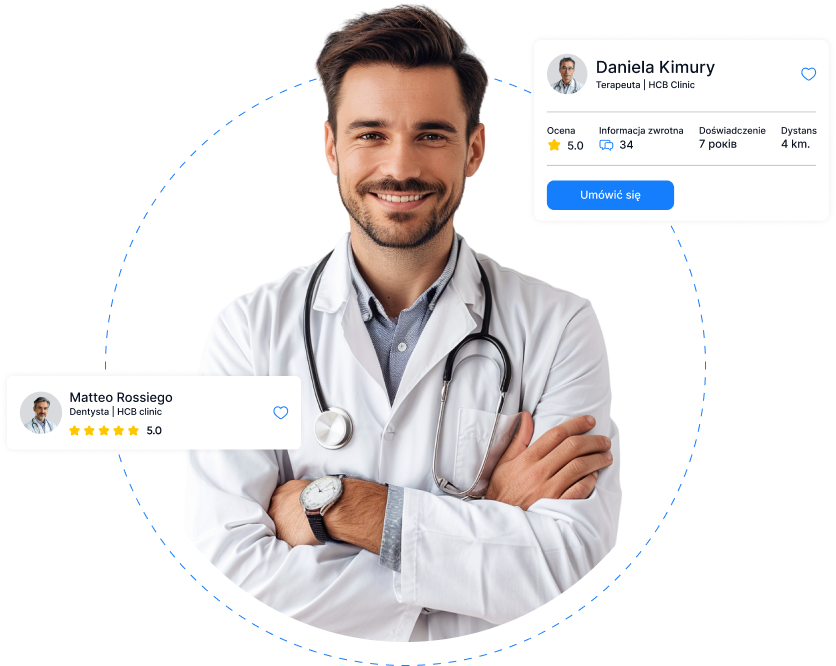
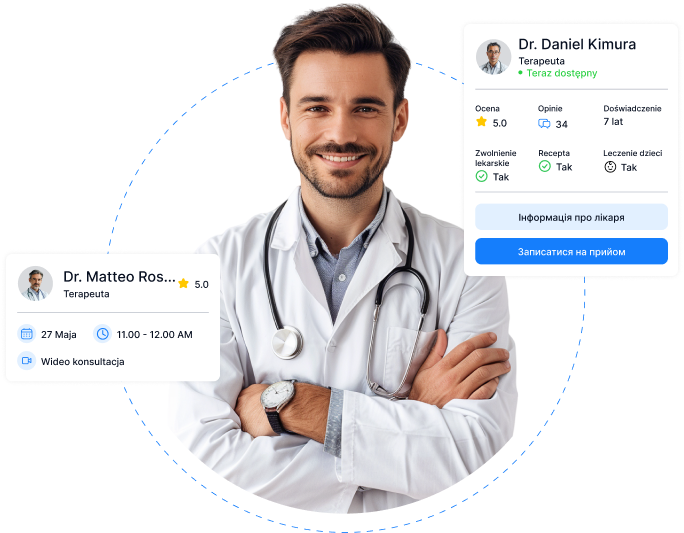
- changed some styles in a Tablet version layout - change images in a Tablet version

diff --git a/src/components/sections/Tablet/GetStartedToday/GetStartedToday.jsx b/src/components/sections/Tablet/GetStartedToday/GetStartedToday.jsx
@@ -2,20 +2,52 @@ import React, {forwardRef} from 'react';
 
 import classes from './getStartedToday.module.css';
 import {useTranslation} from "react-i18next";
+import Button from "../../../ui/button/Button";
+import {useModal} from "../../../../context/ModalContext";
+import phone from "../../../../assets/images/getStartedToday/mobile/phone.png";
+import phoneUa from "../../../../assets/images/getStartedToday/mobile/phoneUa.png";
+import phonePl from "../../../../assets/images/getStartedToday/mobile/phonePl.png";
+import i18n from "../../../../i18n";
+import LazyImage from "../../../ui/LazyImage";
 
 
 const GetStartedToday = forwardRef((props, ref) => {
     const {t} = useTranslation();
-
+    const {openModal} = useModal()
+    const lang = i18n.language
     return (
         <div className={classes.container} ref={ref}>
             <div className={classes.title} data-aos="fade-left" data-aos-delay="200">{t("getStarted.title")}</div>
-            <div className={classes.description} data-aos="fade-right" data-aos-delay="200">
+            <div className={classes.description} style={{marginBottom: "20px"}} data-aos="fade-right"
+                 data-aos-delay="200">
                 {t("getStarted.description")}
             </div>
-            <a href="///" className={classes.button} data-aos="fade-up" data-aos-delay="400">
-                {t("getStarted.button")}
-            </a>
+            <div className={classes.description} data-aos="fade-right" data-aos-delay="200">
+                {t("getStarted.description2")}
+            </div>
+            <Button
+                className={classes.button}
+                text={t("getStarted.button")}
+                data-aos="fade-in"
+                data-aos-delay="400"
+                onClick={openModal}
+                styles={{minWidth: "450px"}}
+            />
+            {
+                lang === "en" ? (
+                    <LazyImage src={phone} className={classes.image} alt="Phone" data-aos="fade"
+                               data-aos-duration="3000"
+                               data-aos-anchor-placement="top-center"/>
+                ) : lang === "ua" ? (
+                    <LazyImage src={phoneUa} className={classes.image} alt="Phone" data-aos="fade"
+                               data-aos-duration="3000"
+                               data-aos-anchor-placement="top-center"/>
+                ) : (
+                    <LazyImage src={phonePl} className={classes.image} alt="Phone" data-aos="fade"
+                               data-aos-duration="3000"
+                               data-aos-anchor-placement="top-center"/>
+                )
+            }
         </div>
     );
 });

diff --git a/src/components/sections/TabletL/GetStartedToday/GetStartedToday.jsx b/src/components/sections/TabletL/GetStartedToday/GetStartedToday.jsx
@@ -11,6 +11,7 @@ import {useTranslation} from "react-i18next";
 import i18n from "../../../../i18n";
 import Button from "../../../ui/button/Button";
 import {useModal} from "../../../../context/ModalContext";
+import LazyImage from "../../../ui/LazyImage";
 
 
 const GetStartedToday = forwardRef((props, ref) => {
@@ -22,20 +23,20 @@ const GetStartedToday = forwardRef((props, ref) => {
             <div className={classes.phoneWrapper}>
                 {
                     lang === "en" ? (
-                        <img src={phoneImage} className={classes.phoneImage} alt="phoneImage" data-aos="fade-up"/>
+                        <LazyImage src={phoneImage} className={classes.phoneImage} alt="phoneImage" data-aos="fade-up"/>
                     ) : lang === "ua" ? (
-                        <img src={phoneImageUa} className={classes.phoneImage} alt="phoneImage" data-aos="fade"
+                        <LazyImage src={phoneImageUa} className={classes.phoneImage} alt="phoneImage" data-aos="fade"
                              data-aos-duration="3000"
                              data-aos-anchor-placement="top-center"/>
                     ) : (
-                        <img src={phoneImagePl} className={classes.phoneImage} alt="phoneImage" data-aos="fade"
+                        <LazyImage src={phoneImagePl} className={classes.phoneImage} alt="phoneImage" data-aos="fade"
                              data-aos-duration="3000"
                              data-aos-anchor-placement="top-center"/>
                     )
                 }
-                <img src={circle1} className={classes.circle1} alt="Cirlce" data-aos="fade-up"/>
-                <img src={circle2} className={classes.circle2} alt="Cirlce" data-aos="fade-right"/>
-                <img src={circle3} className={classes.circle3} alt="Cirlce" data-aos="fade-left"/>
+                <LazyImage src={circle1} className={classes.circle1} alt="Cirlce" data-aos="fade-up"/>
+                <LazyImage src={circle2} className={classes.circle2} alt="Cirlce" data-aos="fade-right"/>
+                <LazyImage src={circle3} className={classes.circle3} alt="Cirlce" data-aos="fade-left"/>
             </div>
 
             <div className={classes.rightSide}>

diff --git a/src/components/sections/Tablet/Priorities/Priorities.jsx b/src/components/sections/Tablet/Priorities/Priorities.jsx
@@ -5,10 +5,14 @@ import {useTranslation} from "react-i18next";
 import macbookUa from "../../../../assets/images/priorities/macbookUa.png";
 import macbookPl from "../../../../assets/images/priorities/macbookPl.png";
 import i18n from "../../../../i18n";
+import Button from "../../../ui/button/Button";
+import {useModal} from "../../../../context/ModalContext";
+import LazyImage from "../../../ui/LazyImage";
 
 const Priorities = forwardRef((props, ref) => {
 
     const {t} = useTranslation()
+    const {openModal} = useModal()
     const lang = i18n.language
     return (
         <div ref={ref} data-aos="fade-out" data-aos-duration="2000"
@@ -18,16 +22,19 @@ const Priorities = forwardRef((props, ref) => {
                 <div className={classes.description}>
                     {t("priorities.description")}
                 </div>
-                <a href="///" className={classes.button}>
-                    {t("priorities.button")}
-                </a>
+                <Button
+                    text={t("priorities.button")}
+                    className={classes.button}
+                    onClick={openModal}
+                    styles={{minWidth: "450px"}}
+                />
                 {
                     lang === "en" ? (
-                        <img src={macbook} alt="doctor" className={classes.image}/>
+                        <LazyImage src={macbook} alt="macbook" className={classes.image}/>
                     ) : lang === "ua" ? (
-                        <img src={macbookUa} alt="doctor" className={classes.image}/>
+                        <LazyImage src={macbookUa} alt="macbook" className={classes.image}/>
                     ) : (
-                        <img src={macbookPl} alt="doctor" className={classes.image}/>
+                        <LazyImage src={macbookPl} alt="macbook" className={classes.image}/>
                     )
                 }
             </div>

diff --git a/src/components/sections/Tablet/Banner/Banner.jsx b/src/components/sections/Tablet/Banner/Banner.jsx
@@ -5,14 +5,14 @@ import {useTranslation} from "react-i18next";
 import i18n from "../../../../i18n";
 import doctorUa from "../../../../assets/images/banner/mobile/picture of doctorUa.png";
 import doctorPl from "../../../../assets/images/banner/mobile/picture of doctorPl.png";
+import Button from "../../../ui/button/Button";
+import {useModal} from "../../../../context/ModalContext";
 
-const Banner = ({scrollTo, refs}) => {
+const Banner = () => {
 
     const {t} = useTranslation();
     const lang = i18n.language
-    const handleNavigationClick = (ref) => {
-        scrollTo(ref);
-    };
+    const {openModal} = useModal()
 
     return (
         <div className={classes.bannerWrapper}>
@@ -22,14 +22,14 @@ const Banner = ({scrollTo, refs}) => {
             <p className={classes.subtitle} data-aos="fade-left" data-aos-delay="200">
                 {t(`banner.subtitle`)}
             </p>
-            <button className={classes.button}
+            <Button className={classes.button}
+                    text={t(`banner.button`)}
                     data-aos="fade"
                     data-aos-delay="200"
                     data-aos-duration="2000"
-                    onClick={() => handleNavigationClick(refs.ourPrioritiesRef)}
-            >
-                {t(`banner.button`)}
-            </button>
+                    onClick={openModal}
+                    styles={{minWidth: "450px"}}
+            />
             <div className={classes.statistic}>
                 <div className={classes.statisticItemWrapper} data-aos="fade-up" data-aos-delay="200">
                     <p className={classes.statisticItemTextBefore}>{t(`banner.comingSoon`)}</p>

diff --git a/src/components/sections/Desktop/WhyChoose/WhyChoose.jsx b/src/components/sections/Desktop/WhyChoose/WhyChoose.jsx
@@ -6,6 +6,7 @@ import {useTranslation} from "react-i18next";
 import doctorUa from "../../../../assets/images/whyChoose/pictureUa.png";
 import doctorPl from "../../../../assets/images/whyChoose/picturePl.png";
 import i18n from "../../../../i18n";
+import LazyImage from "../../../ui/LazyImage";
 
 
 const WhyChoose = forwardRef((props, ref) => {
@@ -18,13 +19,13 @@ const WhyChoose = forwardRef((props, ref) => {
             <div className={classes.leftSide} data-aos="fade-right">
                 {
                     lang === "en" ? (
-                        <img src={doctor} alt="Doctor" className={classes.doctorImage} data-aos="fade" data-aos-delay="200"
+                        <LazyImage src={doctor} alt="Doctor" className={classes.doctorImage} data-aos="fade" data-aos-delay="200"
                              data-aos-duration="1500"/>
                     ) : lang === "ua" ? (
-                        <img src={doctorUa} alt="Doctor" className={classes.doctorImage} data-aos="fade" data-aos-delay="200"
+                        <LazyImage src={doctorUa} alt="Doctor" className={classes.doctorImage} data-aos="fade" data-aos-delay="200"
                              data-aos-duration="1500"/>
                     ) : (
-                        <img src={doctorPl} alt="Doctor" className={classes.doctorImage} data-aos="fade" data-aos-delay="200"
+                        <LazyImage src={doctorPl} alt="Doctor" className={classes.doctorImage} data-aos="fade" data-aos-delay="200"
                              data-aos-duration="1500"/>
                     )
                 }

diff --git a/src/components/sections/Mobile/GetStartedToday/GetStartedToday.jsx b/src/components/sections/Mobile/GetStartedToday/GetStartedToday.jsx
@@ -6,6 +6,7 @@ import phone from "../../../../assets/images/getStartedToday/mobile/phone.png";
 import phoneUa from "../../../../assets/images/getStartedToday/mobile/phoneUa.png";
 import phonePl from "../../../../assets/images/getStartedToday/mobile/phonePl.png";
 import i18n from "../../../../i18n";
+import LazyImage from "../../../ui/LazyImage";
 
 
 const GetStartedToday = forwardRef((props, ref) => {
@@ -21,13 +22,13 @@ const GetStartedToday = forwardRef((props, ref) => {
             </div>
             {
                 lang === "en" ? (
-                    <img src={phone} className={classes.image} alt="Phone" data-aos="fade" data-aos-duration="3000"
+                    <LazyImage src={phone} className={classes.image} alt="Phone" data-aos="fade" data-aos-duration="3000"
                          data-aos-anchor-placement="top-center"/>
                 ) : lang === "ua" ? (
-                    <img src={phoneUa} className={classes.image} alt="Phone" data-aos="fade" data-aos-duration="3000"
+                    <LazyImage src={phoneUa} className={classes.image} alt="Phone" data-aos="fade" data-aos-duration="3000"
                          data-aos-anchor-placement="top-center"/>
                 ) : (
-                    <img src={phonePl} className={classes.image} alt="Phone" data-aos="fade" data-aos-duration="3000"
+                    <LazyImage src={phonePl} className={classes.image} alt="Phone" data-aos="fade" data-aos-duration="3000"
                          data-aos-anchor-placement="top-center"/>
                 )
             }

diff --git a/src/components/sections/Tablet/Contact/Contact.jsx b/src/components/sections/Tablet/Contact/Contact.jsx
@@ -5,18 +5,32 @@ import facebook from "../../../../assets/images/footer/facebook.svg";
 import linkedIn from "../../../../assets/images/footer/linkedin.svg";
 import instagram from "../../../../assets/images/footer/instagram.svg";
 import {useTranslation} from "react-i18next";
+import LazyImage from "../../../ui/LazyImage";
+import Button from "../../../ui/button/Button";
+import {useModal} from "../../../../context/ModalContext";
 
 const Contact = forwardRef((props, ref) => {
 
+    const {openModal} = useModal();
     const {t} = useTranslation();
 
     return (
         <div className={classes.container} ref={ref} data-aos="fade-out" data-aos-duration="2000"
-             data-aos-anchor-placement="top-bootom">
-            <img src={email} alt="Email" className={classes.image}/>
+             data-aos-anchor-placement="top-bootom"
+        >
+            <LazyImage src={email} alt="Email" className={classes.image}/>
             <div className={classes.title}>
-                {t("contact.text")}
+                {t("contact.title")}
             </div>
+            <div className={classes.description}>
+                {t("contact.description")}
+            </div>
+            <Button
+                text={t("contact.button")}
+                onClick={openModal}
+                styles={{marginBottom: "40px", minWidth: "450px"}}
+
+            />
             <div className={classes.socialLinks}>
                 <a href="https://www.facebook.com/D0VIRA.me">
                     <img src={facebook} alt="Facebook"/>

diff --git a/src/components/sections/TabletL/WhyChoose/WhyChoose.jsx b/src/components/sections/TabletL/WhyChoose/WhyChoose.jsx
@@ -6,6 +6,7 @@ import doctorPl from "../../../../assets/images/whyChoose/picturePl.png"
 import check from "../../../../assets/images/whyChoose/check.svg"
 import {useTranslation} from "react-i18next";
 import i18n from "../../../../i18n";
+import LazyImage from "../../../ui/LazyImage";
 
 
 
@@ -18,13 +19,13 @@ const WhyChoose = forwardRef((props, ref) => {
             <div className={classes.leftSide}>
                 {
                     lang === "en" ? (
-                        <img src={doctor} alt="Doctor" className={classes.doctorImage} data-aos="fade" data-aos-delay="200"
+                        <LazyImage src={doctor} alt="Doctor" className={classes.doctorImage} data-aos="fade" data-aos-delay="200"
                              data-aos-duration="1500"/>
                     ) : lang === "ua" ? (
-                        <img src={doctorUa} alt="Doctor" className={classes.doctorImage} data-aos="fade" data-aos-delay="200"
+                        <LazyImage src={doctorUa} alt="Doctor" className={classes.doctorImage} data-aos="fade" data-aos-delay="200"
                              data-aos-duration="1500"/>
                     ) : (
-                        <img src={doctorPl} alt="Doctor" className={classes.doctorImage} data-aos="fade" data-aos-delay="200"
+                        <LazyImage src={doctorPl} alt="Doctor" className={classes.doctorImage} data-aos="fade" data-aos-delay="200"
                              data-aos-duration="1500"/>
                     )
                 }

diff --git a/src/components/sections/Tablet/WhyChoose/WhyChoose.jsx b/src/components/sections/Tablet/WhyChoose/WhyChoose.jsx
@@ -6,6 +6,7 @@ import {useTranslation} from "react-i18next";
 import i18n from "../../../../i18n";
 import doctorUa from "../../../../assets/images/whyChoose/pictureUa.png";
 import doctorPl from "../../../../assets/images/whyChoose/picturePl.png";
+import LazyImage from "../../../ui/LazyImage";
 
 const WhyChoose = forwardRef((props, ref) => {
 
@@ -55,13 +56,13 @@ const WhyChoose = forwardRef((props, ref) => {
             </div>
             {
                 lang === "en" ? (
-                    <img src={doctor} alt="Doctor" className={classes.doctorImage} data-aos="fade" data-aos-delay="200"
+                    <LazyImage src={doctor} alt="Doctor" className={classes.doctorImage} data-aos="fade" data-aos-delay="200"
                          data-aos-duration="1500"/>
                 ) : lang === "ua" ? (
-                    <img src={doctorUa} alt="Doctor" className={classes.doctorImage} data-aos="fade" data-aos-delay="200"
+                    <LazyImage src={doctorUa} alt="Doctor" className={classes.doctorImage} data-aos="fade" data-aos-delay="200"
                          data-aos-duration="1500"/>
                 ) : (
-                    <img src={doctorPl} alt="Doctor" className={classes.doctorImage} data-aos="fade" data-aos-delay="200"
+                    <LazyImage src={doctorPl} alt="Doctor" className={classes.doctorImage} data-aos="fade" data-aos-delay="200"
                          data-aos-duration="1500"/>
                 )
             }

diff --git a/src/components/sections/Mobile/WhyChoose/WhyChoose.jsx b/src/components/sections/Mobile/WhyChoose/WhyChoose.jsx
@@ -6,6 +6,7 @@ import doctorPl from "../../../../assets/images/whyChoose/picturePl.png"
 import check from "../../../../assets/images/whyChoose/check.svg"
 import {useTranslation} from "react-i18next";
 import i18n from "../../../../i18n";
+import LazyImage from "../../../ui/LazyImage";
 
 
 const WhyChoose = forwardRef((props, ref) => {
@@ -57,13 +58,13 @@ const WhyChoose = forwardRef((props, ref) => {
 
             {
                 lang === "en" ? (
-                    <img src={doctor} alt="Doctor" className={classes.doctorImage} data-aos="fade" data-aos-delay="200"
+                    <LazyImage src={doctor} alt="Doctor" className={classes.doctorImage} data-aos="fade" data-aos-delay="200"
                          data-aos-duration="1500"/>
                 ) : lang === "ua" ? (
-                    <img src={doctorUa} alt="Doctor" className={classes.doctorImage} data-aos="fade" data-aos-delay="200"
+                    <LazyImage src={doctorUa} alt="Doctor" className={classes.doctorImage} data-aos="fade" data-aos-delay="200"
                          data-aos-duration="1500"/>
                 ) : (
-                    <img src={doctorPl} alt="Doctor" className={classes.doctorImage} data-aos="fade" data-aos-delay="200"
+                    <LazyImage src={doctorPl} alt="Doctor" className={classes.doctorImage} data-aos="fade" data-aos-delay="200"
                          data-aos-duration="1500"/>
                 )
             }

diff --git a/src/components/sections/Desktop/Priorities/Priorities.jsx b/src/components/sections/Desktop/Priorities/Priorities.jsx
@@ -7,6 +7,7 @@ import macbookUa from "../../../../assets/images/priorities/macbookUa.png";
 import macbookPl from "../../../../assets/images/priorities/macbookPl.png";
 import Button from "../../../ui/button/Button";
 import {useModal} from "../../../../context/ModalContext";
+import LazyImage from "../../../ui/LazyImage";
 
 const Priorities = forwardRef((props, ref) => {
 
@@ -26,11 +27,11 @@ const Priorities = forwardRef((props, ref) => {
                 </div>
                 {
                     lang === "en" ? (
-                        <img src={macbook} alt="doctor" className={classes.image}/>
+                        <LazyImage src={macbook} alt="doctor" className={classes.image}/>
                     ) : lang === "ua" ? (
-                        <img src={macbookUa} alt="doctor" className={classes.image}/>
+                        <LazyImage src={macbookUa} alt="doctor" className={classes.image}/>
                     ) : (
-                        <img src={macbookPl} alt="doctor" className={classes.image}/>
+                        <LazyImage src={macbookPl} alt="doctor" className={classes.image}/>
                     )
                 }
                 <Button text={t("priorities.button")} data-aos="fade-up" data-aos-delay="400"

diff --git a/src/components/sections/Mobile/Priorities/Priorities.jsx b/src/components/sections/Mobile/Priorities/Priorities.jsx
@@ -5,6 +5,7 @@ import macbookUa from "../../../../assets/images/priorities/macbookUa.png"
 import macbookPl from "../../../../assets/images/priorities/macbookPl.png"
 import {useTranslation} from "react-i18next";
 import i18n from "../../../../i18n";
+import LazyImage from "../../../ui/LazyImage";
 
 const Priorities = forwardRef((props, ref) => {
 
@@ -24,11 +25,11 @@ const Priorities = forwardRef((props, ref) => {
                 </a>
                 {
                     lang === "en" ? (
-                        <img src={macbook} alt="macbook" className={classes.image}/>
+                        <LazyImage src={macbook} alt="macbook" className={classes.image}/>
                     ) : lang === "ua" ? (
-                        <img src={macbookUa} alt="macbook" className={classes.image}/>
+                        <LazyImage src={macbookUa} alt="macbook" className={classes.image}/>
                     ) : (
-                        <img src={macbookPl} alt="macbook" className={classes.image}/>
+                        <LazyImage src={macbookPl} alt="macbook" className={classes.image}/>
                     )
                 }
 
